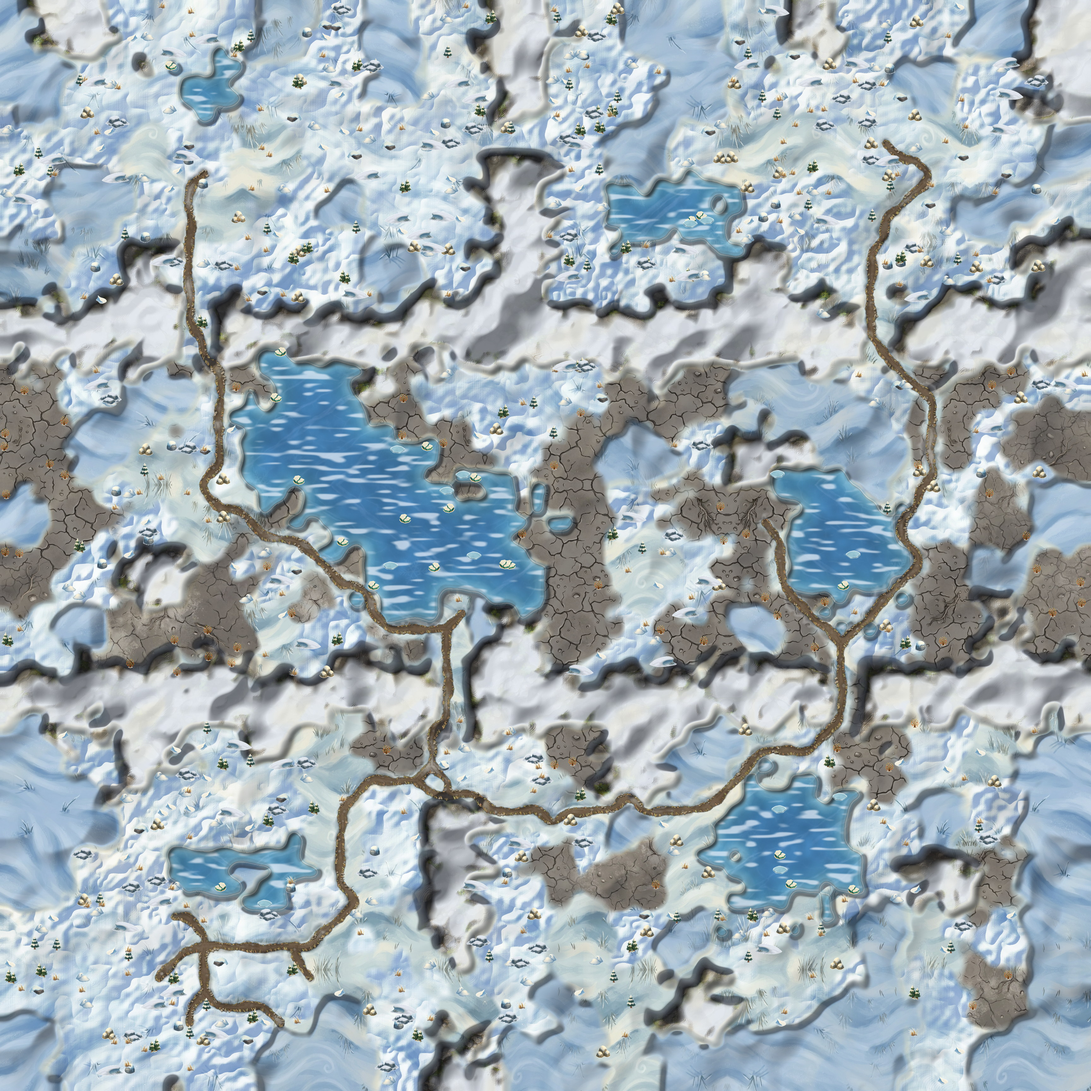
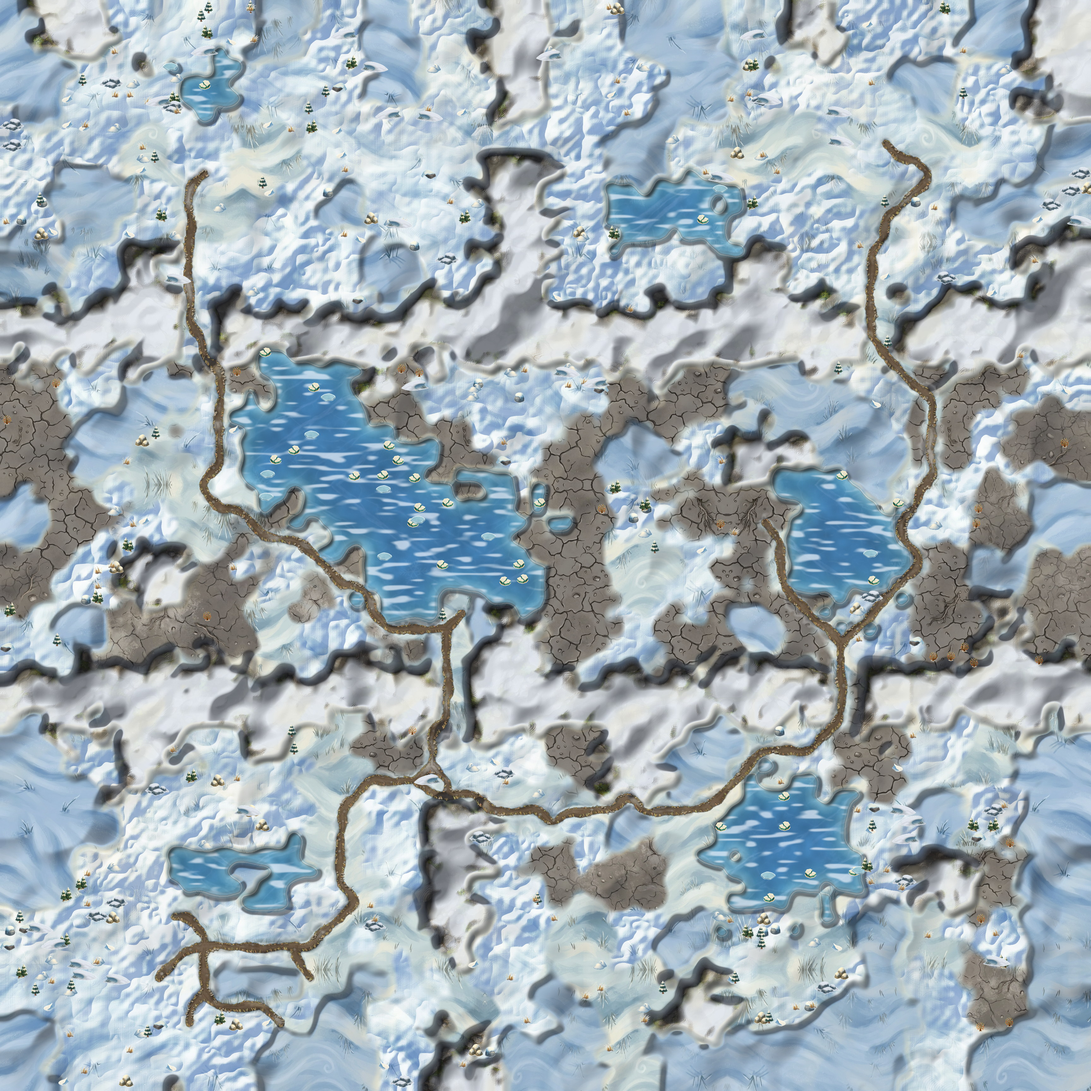
Bagna wygrywają ślepo z HotA: runda 10, 2 z 3 krytyków; większy bohater i strażnicy
Claude-Session: https://claude.ai/code/session_01Qu47Qn6gy3U54smkJJnCXL

diff --git a/src/data/plansza-teren-twierdza.ts b/src/data/plansza-teren-twierdza.ts
@@ -73,8 +73,8 @@ export const TEREN = [
   '#########ssss=ssssss.=.##...###sssss.....sssTTT~ssss~...TTTT..ssssssTTTT',
   '#########sss=========..##.s..##sssss.....ssTTTTssss.s...TTTT...jssssTTTT',
   '#########ss=s=sssss=......s.s.#.ssss....ss..TT#sss......sTT.s...jsssTTTT',
-  '#########s=ss=ss####=...sss.s..sssssTs......#.##ss.....ssTTssssjjjjjTTTT',
-  '#########ssss=ss####s....sss.s..sssTTT.......##....s.sssTTTTssssjjjjTTTT',
+  '#########s=ss=TTTTTT=..TTTs.s..sssssTs......#.##ss.....ssTTssssjjjjjTTTT',
+  '#########ssss=TTTTTTs..TTTss.s..sssTTT.......##....s.sssTTTTssssjjjjTTTT',
   '#########sss=s====sssTTTsssss....sssTTT.....#####..s.sTTTTTTTsssjjjjTTTT',
   'TTTT####ssss=#####=s.TTTssss.#..#ssssTTT...#####.#.ssTTTTTTTTsssjjjTTTTT',
   'TTTT#######ss#####TTTTTTssss#..#sTTsTTTT...TTT#TTTTTTTTTTTTTsssssTTTTTTT',
@@ -135,6 +135,12 @@ export const ROZSTAWIENIE: Array<{
   { x: 12, y: 65, rodzaj: 'budynek', strefa: 'dom', budynek: 'ognisko' },
   { x: 15, y: 63, rodzaj: 'surowiec', strefa: 'dom', surowiec: 'odlamek' },
   { x: 19, y: 67, rodzaj: 'skrzynia', strefa: 'dom' },
+  { x: 17, y: 63, rodzaj: 'budynek', strefa: 'dom', budynek: 'oboz-treningowy' },
+  { x: 20, y: 58, rodzaj: 'potwor', strefa: 'dom', sila: 'slaby' },
+  { x: 21, y: 59, rodzaj: 'artefakt', strefa: 'dom' },
+  { x: 20, y: 61, rodzaj: 'skrzynia', strefa: 'dom' },
+  { x: 23, y: 63, rodzaj: 'surowiec', strefa: 'dom', surowiec: 'pokeball' },
+  { x: 14, y: 53, rodzaj: 'skrzynia', strefa: 'dom' },
   { x: 25, y: 55, rodzaj: 'surowiec', strefa: 'dom', surowiec: 'pokeball' },
   { x: 41, y: 57, rodzaj: 'surowiec', strefa: 'dom', surowiec: 'jagoda' },
   { x: 33, y: 49, rodzaj: 'surowiec', strefa: 'dom', surowiec: 'jagoda' },
@@ -148,51 +154,51 @@ export const ROZSTAWIENIE: Array<{
   { x: 5, y: 48, rodzaj: 'artefakt', strefa: 'dom' },
   { x: 5, y: 49, rodzaj: 'potwor', strefa: 'dom', sila: 'slaby' },
   { x: 27, y: 58, rodzaj: 'surowiec', strefa: 'dom', surowiec: 'pokeball' },
-  { x: 29, y: 68, rodzaj: 'surowiec', strefa: 'dom', surowiec: 'pokeball' },
-  { x: 34, y: 64, rodzaj: 'surowiec', strefa: 'dom', surowiec: 'jagoda' },
-  { x: 52, y: 64, rodzaj: 'surowiec', strefa: 'dom', surowiec: 'jagoda' },
+  { x: 32, y: 68, rodzaj: 'surowiec', strefa: 'dom', surowiec: 'pokeball' },
+  { x: 35, y: 64, rodzaj: 'surowiec', strefa: 'dom', surowiec: 'jagoda' },
+  { x: 53, y: 64, rodzaj: 'surowiec', strefa: 'dom', surowiec: 'jagoda' },
   { x: 53, y: 61, rodzaj: 'surowiec', strefa: 'dom', surowiec: 'jagoda' },
   { x: 35, y: 62, rodzaj: 'surowiec', strefa: 'dom', surowiec: 'jagoda' },
   { x: 25, y: 56, rodzaj: 'surowiec', strefa: 'dom', surowiec: 'jagoda' },
-  { x: 42, y: 64, rodzaj: 'surowiec', strefa: 'dom', surowiec: 'odlamek' },
+  { x: 43, y: 64, rodzaj: 'surowiec', strefa: 'dom', surowiec: 'odlamek' },
   { x: 32, y: 60, rodzaj: 'kopalnia', strefa: 'dom', surowiec: 'odlamek' },
   { x: 22, y: 49, rodzaj: 'kopalnia', strefa: 'dom', surowiec: 'pokeball' },
   { x: 15, y: 49, rodzaj: 'kopalnia', strefa: 'dom', surowiec: 'odlamek' },
-  { x: 41, y: 67, rodzaj: 'kopalnia', strefa: 'dom', surowiec: 'pokeball' },
+  { x: 25, y: 68, rodzaj: 'kopalnia', strefa: 'dom', surowiec: 'pokeball' },
   { x: 43, y: 60, rodzaj: 'kopalnia', strefa: 'dom', surowiec: 'kamien' },
   { x: 21, y: 50, rodzaj: 'potwor', strefa: 'dom', sila: 'slaby' },
   { x: 42, y: 61, rodzaj: 'potwor', strefa: 'dom', sila: 'slaby' },
-  { x: 46, y: 59, rodzaj: 'kopalnia', strefa: 'dom', surowiec: 'jagoda' },
-  { x: 36, y: 58, rodzaj: 'skrzynia', strefa: 'dom' },
+  { x: 46, y: 57, rodzaj: 'kopalnia', strefa: 'dom', surowiec: 'jagoda' },
+  { x: 32, y: 66, rodzaj: 'skrzynia', strefa: 'dom' },
+  { x: 38, y: 58, rodzaj: 'skrzynia', strefa: 'dom' },
   { x: 13, y: 49, rodzaj: 'skrzynia', strefa: 'dom' },
   { x: 37, y: 52, rodzaj: 'skrzynia', strefa: 'dom' },
-  { x: 49, y: 63, rodzaj: 'skrzynia', strefa: 'dom' },
-  { x: 35, y: 51, rodzaj: 'skrzynia', strefa: 'dom' },
-  { x: 27, y: 67, rodzaj: 'potwor', strefa: 'dom', sila: 'slaby' },
-  { x: 21, y: 52, rodzaj: 'potwor', strefa: 'dom', sila: 'slaby' },
+  { x: 43, y: 63, rodzaj: 'skrzynia', strefa: 'dom' },
+  { x: 24, y: 52, rodzaj: 'potwor', strefa: 'dom', sila: 'slaby' },
+  { x: 50, y: 66, rodzaj: 'potwor', strefa: 'dom', sila: 'slaby' },
   { x: 20, y: 52, rodzaj: 'potwor', strefa: 'dom', sila: 'slaby' },
-  { x: 36, y: 51, rodzaj: 'artefakt', strefa: 'dom' },
-  { x: 41, y: 56, rodzaj: 'artefakt', strefa: 'dom' },
-  { x: 35, y: 50, rodzaj: 'potwor', strefa: 'dom', sila: 'slaby' },
-  { x: 40, y: 56, rodzaj: 'potwor', strefa: 'dom', sila: 'slaby' },
-  { x: 4, y: 50, rodzaj: 'skrzynia', strefa: 'dom' },
-  { x: 7, y: 49, rodzaj: 'skrzynia', strefa: 'dom' },
+  { x: 27, y: 53, rodzaj: 'artefakt', strefa: 'dom' },
+  { x: 35, y: 51, rodzaj: 'artefakt', strefa: 'dom' },
+  { x: 26, y: 52, rodzaj: 'potwor', strefa: 'dom', sila: 'slaby' },
+  { x: 34, y: 50, rodzaj: 'potwor', strefa: 'dom', sila: 'slaby' },
   { x: 4, y: 48, rodzaj: 'skrzynia', strefa: 'dom' },
+  { x: 6, y: 47, rodzaj: 'skrzynia', strefa: 'dom' },
+  { x: 4, y: 50, rodzaj: 'skrzynia', strefa: 'dom' },
   { x: 6, y: 51, rodzaj: 'potwor', strefa: 'dom', sila: 'slaby' },
-  { x: 65, y: 49, rodzaj: 'budynek', strefa: 'dom', budynek: 'ognisko' },
-  { x: 31, y: 66, rodzaj: 'budynek', strefa: 'dom', budynek: 'wiatrak' },
-  { x: 10, y: 51, rodzaj: 'budynek', strefa: 'dom', budynek: 'oboz-treningowy' },
-  { x: 25, y: 66, rodzaj: 'budynek', strefa: 'dom', budynek: 'zrodlo' },
-  { x: 36, y: 49, rodzaj: 'budynek', strefa: 'dom', budynek: 'ranczo' },
-  { x: 61, y: 61, rodzaj: 'budynek', strefa: 'dom', budynek: 'gniazdo' },
-  { x: 59, y: 50, rodzaj: 'budynek', strefa: 'dom', budynek: 'drzewo-wiedzy' },
-  { x: 34, y: 56, rodzaj: 'budynek', strefa: 'dom', budynek: 'chatka' },
-  { x: 31, y: 67, rodzaj: 'budynek', strefa: 'dom', budynek: 'woz' },
-  { x: 11, y: 52, rodzaj: 'budynek', strefa: 'dom', budynek: 'kamienna-wieza' },
-  { x: 25, y: 49, rodzaj: 'budynek', strefa: 'dom', budynek: 'ognisko' },
-  { x: 45, y: 56, rodzaj: 'budynek', strefa: 'dom', budynek: 'wiatrak' },
-  { x: 66, y: 58, rodzaj: 'budynek', strefa: 'dom', budynek: 'oboz-treningowy' },
-  { x: 63, y: 68, rodzaj: 'budynek', strefa: 'dom', budynek: 'zrodlo' },
+  { x: 64, y: 49, rodzaj: 'budynek', strefa: 'dom', budynek: 'ognisko' },
+  { x: 27, y: 66, rodzaj: 'budynek', strefa: 'dom', budynek: 'wiatrak' },
+  { x: 61, y: 65, rodzaj: 'budynek', strefa: 'dom', budynek: 'oboz-treningowy' },
+  { x: 35, y: 49, rodzaj: 'budynek', strefa: 'dom', budynek: 'zrodlo' },
+  { x: 40, y: 61, rodzaj: 'budynek', strefa: 'dom', budynek: 'ranczo' },
+  { x: 54, y: 50, rodzaj: 'budynek', strefa: 'dom', budynek: 'gniazdo' },
+  { x: 26, y: 56, rodzaj: 'budynek', strefa: 'dom', budynek: 'drzewo-wiedzy' },
+  { x: 28, y: 67, rodzaj: 'budynek', strefa: 'dom', budynek: 'chatka' },
+  { x: 63, y: 51, rodzaj: 'budynek', strefa: 'dom', budynek: 'woz' },
+  { x: 6, y: 49, rodzaj: 'budynek', strefa: 'dom', budynek: 'kamienna-wieza' },
+  { x: 60, y: 71, rodzaj: 'budynek', strefa: 'dom', budynek: 'ognisko' },
+  { x: 39, y: 56, rodzaj: 'budynek', strefa: 'dom', budynek: 'wiatrak' },
+  { x: 45, y: 58, rodzaj: 'budynek', strefa: 'dom', budynek: 'oboz-treningowy' },
+  { x: 60, y: 68, rodzaj: 'budynek', strefa: 'dom', budynek: 'zrodlo' },
   { x: 13, y: 39, rodzaj: 'surowiec', strefa: 'pogranicze', surowiec: 'kamien' },
   { x: 70, y: 27, rodzaj: 'surowiec', strefa: 'pogranicze', surowiec: 'jagoda' },
   { x: 13, y: 34, rodzaj: 'surowiec', strefa: 'pogranicze', surowiec: 'kamien' },
@@ -335,14 +341,16 @@ export const ROZSTAWIENIE: Array<{
   { x: 54, y: 5, rodzaj: 'budynek', strefa: 'wroga', budynek: 'kamienna-wieza' },
   { x: 52, y: 14, rodzaj: 'budynek', strefa: 'wroga', budynek: 'wieza-obserwacyjna' },
   { x: 40, y: 18, rodzaj: 'jasnowidz', strefa: 'wroga' },
-  { x: 47, y: 17, rodzaj: 'artefakt', strefa: 'wroga' },
-  { x: 56, y: 1, rodzaj: 'artefakt', strefa: 'wroga' },
-  { x: 2, y: 15, rodzaj: 'artefakt', strefa: 'wroga' },
-  { x: 56, y: 2, rodzaj: 'potwor', strefa: 'wroga', sila: 'wodz' },
-  { x: 2, y: 14, rodzaj: 'potwor', strefa: 'wroga', sila: 'wodz' },
-  { x: 15, y: 2, rodzaj: 'skrzynia', strefa: 'wroga' },
-  { x: 62, y: 3, rodzaj: 'skrzynia', strefa: 'wroga' },
-  { x: 15, y: 3, rodzaj: 'potwor', strefa: 'wroga', sila: 'silny' },
+  { x: 39, y: 3, rodzaj: 'artefakt', strefa: 'wroga' },
+  { x: 37, y: 18, rodzaj: 'artefakt', strefa: 'wroga' },
+  { x: 52, y: 7, rodzaj: 'artefakt', strefa: 'wroga' },
+  { x: 39, y: 4, rodzaj: 'potwor', strefa: 'wroga', sila: 'wodz' },
+  { x: 36, y: 17, rodzaj: 'potwor', strefa: 'wroga', sila: 'wodz' },
+  { x: 51, y: 8, rodzaj: 'potwor', strefa: 'wroga', sila: 'wodz' },
+  { x: 59, y: 2, rodzaj: 'skrzynia', strefa: 'wroga' },
+  { x: 52, y: 3, rodzaj: 'skrzynia', strefa: 'wroga' },
+  { x: 58, y: 3, rodzaj: 'potwor', strefa: 'wroga', sila: 'silny' },
+  { x: 53, y: 4, rodzaj: 'potwor', strefa: 'wroga', sila: 'silny' },
 ];
 
 /** Ustawienia misji na tej planszy — patrz `UstawieniaPlanszy` w `src/data/mapy.ts`. */
@@ -399,10 +407,20 @@ export const USTAWIENIA = {
     {
       "x": 13,
       "y": 62,
+      "promien": 19
+    },
+    {
+      "x": 34,
+      "y": 60,
+      "promien": 13
+    },
+    {
+      "x": 56,
+      "y": 60,
       "promien": 13
     }
   ],
-  "znajdzki": 0.78,
+  "znajdzki": 0.9,
   "masywy": [
     {
       "plik": "gora-4",
@@ -475,18 +493,6 @@ export const USTAWIENIA = {
         67,
         17,
         68
-      ]
-    },
-    {
-      "plik": "gora-8",
-      "x": 17.8,
-      "y": 66.2,
-      "szer": 5.3,
-      "pokrywa": [
-        16,
-        64,
-        19,
-        65
       ]
     },
     {

diff --git a/tools/mapy/twierdza.py b/tools/mapy/twierdza.py
@@ -179,11 +179,27 @@ def popraw_teren(g, mapa):
             mapa[y][x] = '#'
     for x, y in [(11, 67), (12, 67), (11, 68), (12, 68), (11, 69), (12, 69), (11, 70), (12, 70), (13, 70)]:
         mapa[y][x] = 's'
+    # Runda 8 (HotA): „środkowe i prawe pola śniegu to puste białe plamy
+    # z pojedynczymi kępkami drzew". Zalesiony pagór (płaski śnieżny płat
+    # z kilkoma świerkami) zamienia się w zwarty masyw boru 6 × 2 — dwie
+    # kępy 3 × 2 sceny — jak na Polanie: las wyznacza korytarz (y 66) i plac
+    # pod traktem (y 63), a nie leży płaską białą wyspą.
     for y in (64, 65):
-        for x in range(16, 20):
-            mapa[y][x] = '#'
+        for x in range(14, 20):
+            mapa[y][x] = 'T'
     for x, y in [(21, 66), (22, 66), (23, 66), (23, 67)]:
         mapa[y][x] = 'T'
+    # Wschodni brzeg stawu jako śnieżny cypel już przed rozstawieniem (dotąd
+    # zamarzał dopiero po nim, patrz koniec `rozstaw`): stoi na nim relikt
+    # pod strażą.
+    for x, y in [(19, 58), (20, 58), (21, 58), (19, 59), (20, 59), (21, 59), (22, 59), (21, 60)]:
+        if mapa[y][x] == '~':
+            mapa[y][x] = 's'
+    # …i ściana boru na prawym brzegu kadru, za kopalnią odłamków: świat
+    # ciągnie się dalej, zamiast kończyć na pustym śniegu przy ramie.
+    for y in (64, 65):
+        for x in range(23, 26):
+            mapa[y][x] = 'T'
     for x, y in [(23, 61), (24, 61), (23, 62), (24, 62)]:
         mapa[y][x] = '#'
 
@@ -242,6 +258,20 @@ PIERWSZY_EKRAN = [
     ([(15, 63), (14, 63), (16, 63)], ('surowiec', 'odlamek')),
     # Zatoczka na końcu korytarza, pod borem.
     ([(19, 67), (18, 67), (20, 67)], ('skrzynia', None)),
+    # Runda 8 (HotA): „pola śniegu między jeziorem a zamkiem i pas od ścieżki
+    # do prawego brzegu to puste białe plamy — powiększyć i zagęścić obiekty
+    # (kopalnie, skrzynie, strażnicy, ruiny), żeby mapa miała rytm i cele".
+    # Plac pod traktem, przed nowym borem: obóz łowców z namiotami.
+    ([(17, 63), (18, 63)], ('budynek', 'oboz-treningowy')),
+    # Brzeg stawu na wschód od spichlerza: relikt za strażnikiem — cel
+    # widoczny z rozstajów, straż stoi z dala od traktu (x 22–23).
+    ([(20, 58), (20, 59)], ('potwor', 'slaby')),
+    ([(21, 59), (21, 60)], ('artefakt', None)),
+    # Skrzynia przy trakcie na północ i kupka kul za kopalnią, pod borem.
+    ([(20, 61), (20, 60)], ('skrzynia', None)),
+    ([(23, 63), (22, 62)], ('surowiec', 'pokeball')),
+    # Góra kadru, przy wieży: skrzynia na brzegu stawu.
+    ([(14, 53), (13, 53), (14, 54)], ('skrzynia', None)),
 ]
 
 
@@ -442,14 +472,21 @@ USTAWIENIA = {
     'odkryte': [
         {'x': 58, 'y': 8, 'promien': 4},
         {'x': 13, 'y': 10, 'promien': 4},
-        {'x': 13, 'y': 62, 'promien': 13},
+        # Runda 8 (HotA): „świat kończy się na ramce — rogi i prawy brzeg kadru
+        # w ciemnej winiecie mgły; minimapa to sam granat z jednym rogiem".
+        # Cała dolina gracza (y 47–71) jest mu znana, z zapasem na miękki brzeg
+        # mgły poza kadrem; północ — tundra i twierdze — zostaje do odkrycia.
+        {'x': 13, 'y': 62, 'promien': 19},
+        {'x': 34, 'y': 60, 'promien': 13},
+        {'x': 56, 'y': 60, 'promien': 13},
     ],
     # Runda 3 (wzorzec HotA): znajdźki na pół pola z cieniem i rysunkiem stosu
     # leżącego w śniegu (`public/mapa/zima/stos-*.png`) zamiast ikon z paska.
     # Runda 5 (HotA): „zasoby, skrzynie i flagi mają 1/3 kafla, bez cieni,
     # giną na śniegu — powiększyć 1,5–2 razy". Trzy czwarte pola i ciemny
     # obrys obiektów gry (jak Bagna/Polana) — odróżnia je od zasp i głazów.
-    'znajdzki': 0.78,
+    # Runda 8 (HotA): „obiekty są za małe" — stosy prawie na całe pole.
+    'znajdzki': 0.9,
     # Runda 7 (HotA): „budynki jak naklejki na owalnych wysepkach śniegu
     # z twardą krawędzią". Podstawki budowli rozpływają się teraz w tle
     # (`wtopPodstawe` w `wsad_wczytaj.py`), a ciemny obrys — osiem
@@ -475,7 +512,8 @@ USTAWIENIA = {
         # Skalna skarpa pod zamkiem i zalesiony pagór nad nią (§18,
         # rysunki rozciągnięte w poziomie, żeby nie zasłaniały korytarza).
         {'plik': 'gora-6', 'x': 15.5, 'y': 69.1, 'szer': 5.8, 'pokrywa': [13, 67, 17, 68]},
-        {'plik': 'gora-8', 'x': 17.8, 'y': 66.2, 'szer': 5.3, 'pokrywa': [16, 64, 19, 65]},
+        # (Runda 8: bez zalesionego pagóra `gora-8` — płaski śnieżny płat czytał
+        # się jak „pusta biała plama z kępką drzew"; w jego miejscu zwarty bór.)
         # Skalny pagór na wschodnim brzegu kadru, przy trakcie na północ.
         {'plik': 'gora-7', 'x': 24.0, 'y': 63.2, 'szer': 2.8, 'pokrywa': [23, 61, 24, 62]},
     ],
@@ -560,6 +598,29 @@ NAKLEJKI = [
     (['trawy-snieg'], 's.', 0.06),
     (['nawis-sniezny'], 's', 0.04),
 ]
+
+
+
+def NAKLEJKI_OMIN(zrodlo):
+    """Pola bez naklejek tła (`render_mapa`, runda 8).
+
+    Werdykt rundy 7: „wiatrak, chata nad jeziorem i chatka na dole wiszą na
+    śniegu jak naklejki". Pod spichlerzem leżał zaśnieżony głaz, pod kopalnią
+    nawis z pasem cienia — budynek stał na półce skalnej, a jego ściany
+    kończyły się nad ciemną plamą. Pod budowlą i wokół niej sam śnieg.
+    """
+    import re
+    omin = set()
+    for m in re.finditer(r"\{ x: (\d+), y: (\d+), rodzaj: '(\w+)'", zrodlo):
+        x, y, rodzaj = int(m.group(1)), int(m.group(2)), m.group(3)
+        if rodzaj in ('kopalnia', 'budynek', 'jasnowidz'):
+            omin |= {(x + dx, y + dy) for dx in (-2, -1, 0, 1, 2) for dy in (-2, -1, 0, 1)}
+        else:
+            omin |= {(x + dx, y + dy) for dx in (-1, 0, 1) for dy in (-1, 0)}
+    for m in re.finditer(r"'zamek[^']*': \{ x: (\d+), y: (\d+) \}", zrodlo):
+        x, y = int(m.group(1)), int(m.group(2))
+        omin |= {(x + dx, y + dy) for dx in range(-2, 3) for dy in range(-3, 2)}
+    return omin
 
 
 def TLO(rysunek):

diff --git a/tools/render_mapa.py b/tools/render_mapa.py
@@ -67,6 +67,8 @@ EFEKTY: set = set()
 TEKSTURY: dict = {}
 WTAPIANIE: dict = {}
 NAKLEJKI: list = []
+#: Pola bez naklejek — funkcja planszy od źródła .ts (patrz `klatka`).
+NAKLEJKI_OMIN = None
 #: Mosty malowane na wodzie — `MOSTY` z konfiguracji (patrz `teren_efekty.mosty`).
 MOSTY: list = []
 #: Parametry efektu `trzesawisko` (barwa oczek) — `TRZESAWISKO` z konfiguracji.
@@ -147,6 +149,8 @@ def ustaw(mapa_id: str):
     RZEZBA = getattr(k, 'RZEZBA', None)
     BRZEG_WODY = getattr(k, 'BRZEG_WODY', {})
     DROGA_OBRZEZE = getattr(k, 'DROGA_OBRZEZE', {})
+    global NAKLEJKI_OMIN
+    NAKLEJKI_OMIN = getattr(k, 'NAKLEJKI_OMIN', None)
     ZRODLO = plik_ts(mapa_id)
     RYSUNEK = wczytaj_rysunek()
     # Mosty (`MOSTY` planszy): pola pod mostem są w grze drogą, ale w tle
@@ -365,7 +369,10 @@ def klatka() -> tuple[Image.Image, Image.Image]:
     # — po drogach, żeby kępa trzciny nie znikała pod groblą, ale pod
     # sprite'ami sceny. Bez plików nic się nie dzieje (patrz `naklejki`).
     if NAKLEJKI:
-        plansza = teren_efekty.naklejki(plansza, RYSUNEK, KAFEL, NAKLEJKI, ZIARNO + 740)
+        # Twierdza, runda 8: `NAKLEJKI_OMIN(źródło .ts)` planszy — pola bez naklejek
+        # (pod budowlami). Bez ustawienia — jak dotąd, bajt w bajt.
+        omin = NAKLEJKI_OMIN(ZRODLO.read_text(encoding='utf-8')) if NAKLEJKI_OMIN else None
+        plansza = teren_efekty.naklejki(plansza, RYSUNEK, KAFEL, NAKLEJKI, ZIARNO + 740, omin=omin)
     if MOSTY:
         plansza, maskaWody = teren_efekty.mosty(plansza, maskaWody, KAFEL, MOSTY)
     return plansza, maskaWody

diff --git a/tools/teren_efekty.py b/tools/teren_efekty.py
@@ -305,7 +305,8 @@ def trzesawisko(plansza: Image.Image, maska: Image.Image, kafel: int, ziarno: in
 KATALOG_NAKLEJEK = __import__('pathlib').Path(__file__).resolve().parent.parent / 'public' / 'mapa' / 'tlo'
 
 
-def naklejki(plansza: Image.Image, rysunek: list, kafel: int, zasady: list, ziarno: int) -> Image.Image:
+def naklejki(plansza: Image.Image, rysunek: list, kafel: int, zasady: list, ziarno: int,
+             omin=None) -> Image.Image:
     """Rozsiewa naklejki z `public/mapa/tlo/` po polach danego terenu.
 
     `zasady` to lista `(pliki, znaki_terenu, gęstość)` z konfiguracji planszy
@@ -331,6 +332,11 @@ def naklejki(plansza: Image.Image, rysunek: list, kafel: int, zasady: list, ziar
                 wybor = int(rng.integers(0, max(1, len(obrazy))))
                 dx, dy = rng.uniform(-0.3, 0.3, 2)
                 if not obrazy or rysunek[y][x] not in znaki or los > gestosc:
+                    continue
+                # `omin` (Twierdza, runda 8): pola pod budowlami — głaz albo
+                # nawis spod ściany robił z budynku „wysepkę na półce skalnej".
+                # Losowania wyżej zostają, więc reszta rozsiewu się nie zmienia.
+                if omin is not None and (x, y) in omin:
                     continue
                 n = obrazy[wybor]
                 if rng.random() < 0.5:

diff --git a/tools/PROMPTY-PLANSZE.md b/tools/PROMPTY-PLANSZE.md
@@ -1813,3 +1813,35 @@ and boot prints. Cool muted palette: umber brown, slate grey, touches of
 white. The surface fills the WHOLE picture evenly with no direction, no edges,
 no verge, no grass, no clean white snow areas larger than a pebble cluster.
 ```
+
+## 21. Twierdza — zaspy przy podstawach budowli (runda 8, wzorzec HotA)
+
+Werdykt rundy 7: „wiatrak, chata nad jeziorem i chatka na dole wiszą na
+śniegu jak naklejki — bez zaspy przy podstawie". Scena sadzi przy podstawie
+każdej kopalni i zamku kilka sprite'ów `m-krzak`/`m-krzak-2`
+(`zaroslaPrzyPodstawie`); w zestawie `zima` były to krzaki na śnieżnym
+kopczyku z ciemnym, sinym spodem — pod budynkiem czytały się jak skalna
+półka z kamieniami. Zamiast nich miękkie zaspy nawiane pod ściany, z kilkoma
+suchymi źdźbłami: podstawa budowli ginie w śniegu, a nie stoi na podstawce.
+Po wygenerowaniu kopiowane ręcznie do `tools/wsad/zima-krzak.png`
+i `zima-krzak-2.png` (wysokość 84, `wsad_wczytaj.py`).
+
+<!-- plik: zima-zaspa-krzak.png -->
+```
+A soft wind-blown snow drift, low and wide, like snow piled against the foot
+of a wall: smooth rounded white snow with a gentle curling crest on top, cool
+pale blue shading on the lower right side, a few thin dry golden-brown grass
+stalks and two or three bare twig tips poking out of the snow. Pure white and
+pale blue snow only, no dark rocks, no dark outline, no dark underside, no
+green. About twice as wide as tall.
+```
+
+<!-- plik: zima-zaspa-krzak-2.png -->
+```
+A small cluster of two soft rounded snow drifts side by side, low and wide,
+freshly fallen snow heaped up by the wind, smooth white with delicate pale
+blue shading on the lower right, sparkle of frost on top, a single small dry
+tuft of straw-coloured grass sticking out between them. Pure white and pale
+blue snow only, no dark rocks, no dark outline, no dark underside, no green.
+About two and a half times as wide as tall.
+```
